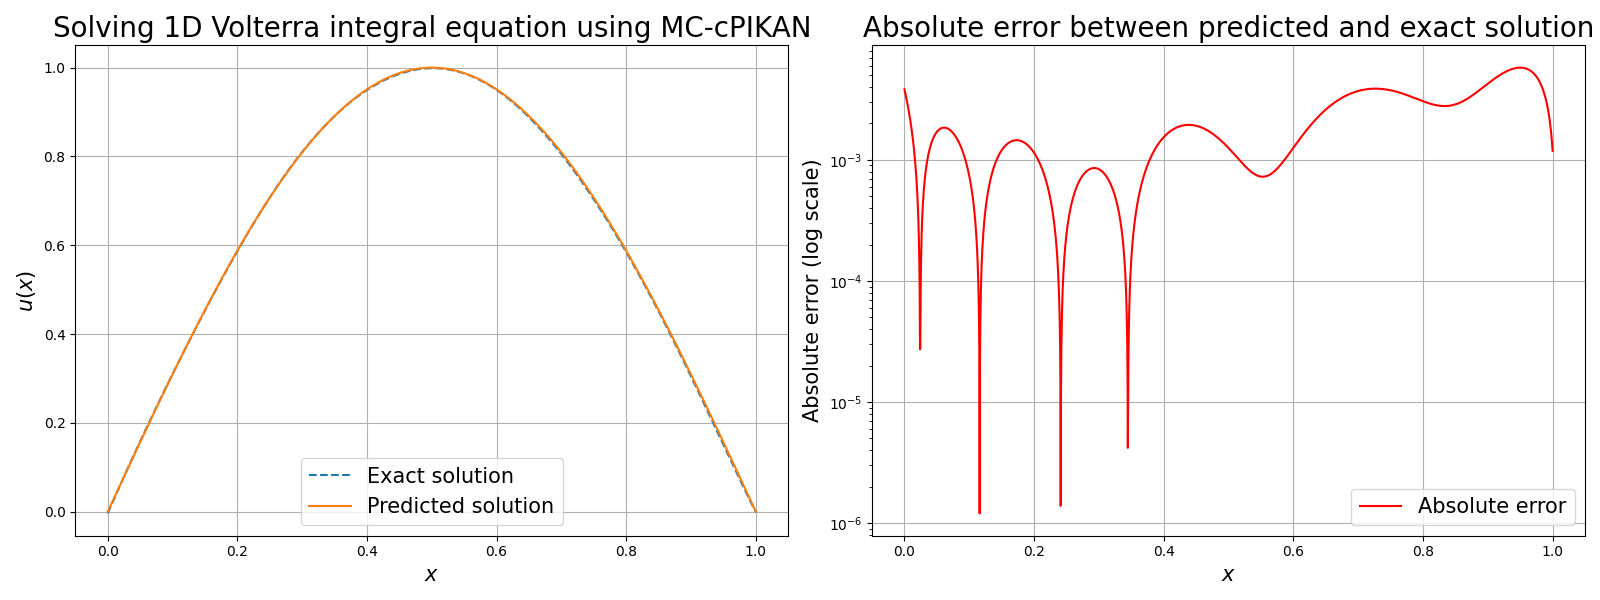
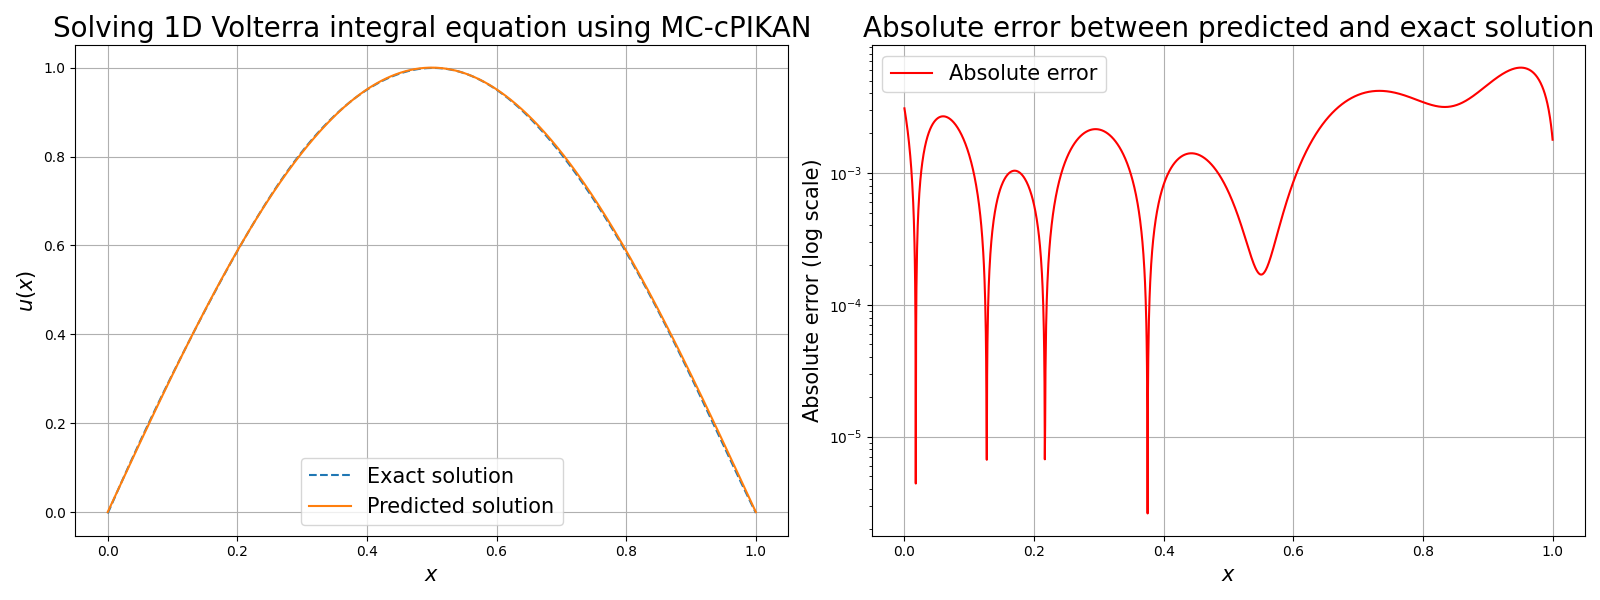
Fix dtype consistency in Volterra 2D function and optimize Volterra 1D MCPI setup
- Add dtype specification to torch.exp calls in Volterra_2D_NR.py for consistency
- Reduce collocation points from 200 to 80 and simplify sampling in Volterra1D_MCPI.py
- Update loss function to use single sample set and squared norm in Volterra_1D.py

diff --git a/problems/Volterra_2D_NR.py b/problems/Volterra_2D_NR.py
@@ -1,7 +1,7 @@
 import torch
 
 def f(x, tau):
-	y = -331 * tau ** 7 / 720000 - 2153 * tau ** 6 * x / 9000000 + 7 * tau ** 4 * x ** 3 / 9 + 29 * tau ** 3 * x ** 4 / 18 + 6 * tau ** 2 * x ** 5 / 5 + 11 * tau * x ** 6 / 30 + tau * x * torch.exp(torch.tensor(3)) / 1125 + tau * x * torch.exp(torch.tensor(2)) / 100 + 14447 * tau * x / 7200 + x ** 2 + 12871 / 45360000 + torch.exp(torch.tensor(4)) / 16000 + 8 * torch.exp(torch.tensor(3)) / 10125
+	y = -331 * tau ** 7 / 720000 - 2153 * tau ** 6 * x / 9000000 + 7 * tau ** 4 * x ** 3 / 9 + 29 * tau ** 3 * x ** 4 / 18 + 6 * tau ** 2 * x ** 5 / 5 + 11 * tau * x ** 6 / 30 + tau * x * torch.exp(torch.tensor(3, dtype=x.dtype)) / 1125 + tau * x * torch.exp(torch.tensor(2, dtype=x.dtype)) / 100 + 14447 * tau * x / 7200 + x ** 2 + 12871 / 45360000 + torch.exp(torch.tensor(4, dtype=x.dtype)) / 16000 + 8 * torch.exp(torch.tensor(3, dtype=x.dtype)) / 10125
 	return y
 
 print(f(torch.tensor(0.0), torch.tensor(0.0)))

diff --git a/Volterra1D_MCPI.py b/Volterra1D_MCPI.py
@@ -14,10 +14,9 @@ if __name__ == "__main__":
 	n_s = 200
 	n_e = 10000
 
-	x = torch.linspace(0, 1, 200, device=device, dtype=dtype)
-	s1 = torch.rand(n_s, device=device, dtype=dtype)
-	s2 = torch.rand(n_s, device=device, dtype=dtype)
-	s = [s1, s2]
+	x = torch.linspace(0, 1, 80, device=device, dtype=dtype)
+	s0 = torch.rand(n_s, device=device, dtype=dtype)
+	s = [s0]
 
 	# build model
 	m = 1

diff --git a/problems/Volterra_1D.py b/problems/Volterra_1D.py
@@ -31,9 +31,8 @@ def in_mean(model, x, s):
 	return inner_mean
 
 def loss_fn(model, x, s):
-	s1 = s[0]
-	s2 = s[1]
-	loss_mc = torch.mean(torch.abs(in_mean(model, x, s1) * in_mean(model, x, s2)))
+	s0 = s[0]
+	loss_mc = torch.mean(torch.abs(in_mean(model, x, s0) **2))
 	return loss_mc
 
 # 训练过程
